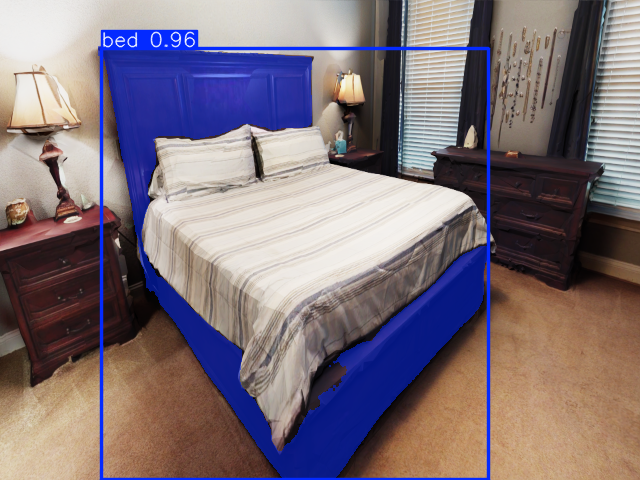
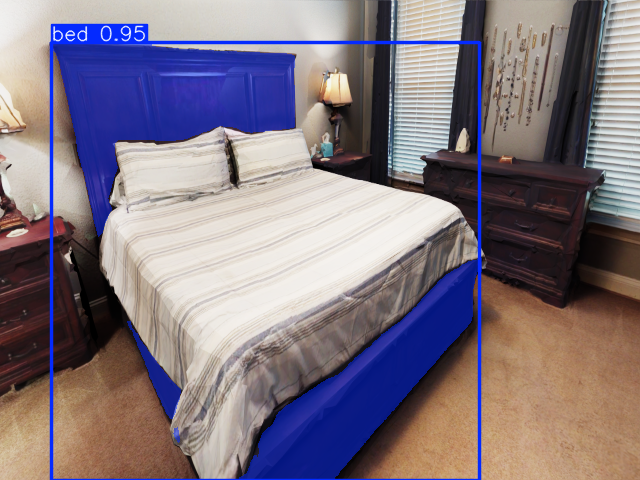
Update exploration configuration and add new detection datasets
- Modified `explorer_config.yaml` to adjust weights and parameters for exploration and fusion.
- Updated `demo.rviz` for improved visualization settings and display configurations.
- Added new detection datasets for various objects (bed, chair, oven, refrigerator, sofa) including videos, images, and metadata.
- Changed the episode ID in `evaluate.launch.py` to "RQ2/E001/EXP_MEM_40_60" for evaluation consistency.

diff --git a/sage_evaluator/sage_evaluator/launch/evaluate.launch.py b/sage_evaluator/sage_evaluator/launch/evaluate.launch.py
@@ -11,7 +11,7 @@ import os
 SCENE = "00800-TEEsavR23oF"
 VERSION = "v1.10"
 PROMPT_SET = "train"
-EPISODE_ID = "RQ2/E001/EXP_MEM_80_20"
+EPISODE_ID = "RQ2/E001/EXP_MEM_40_60"
 
 def launch_setup(context, *args, **kwargs):
     """Function to evaluate LaunchConfiguration and create nodes"""